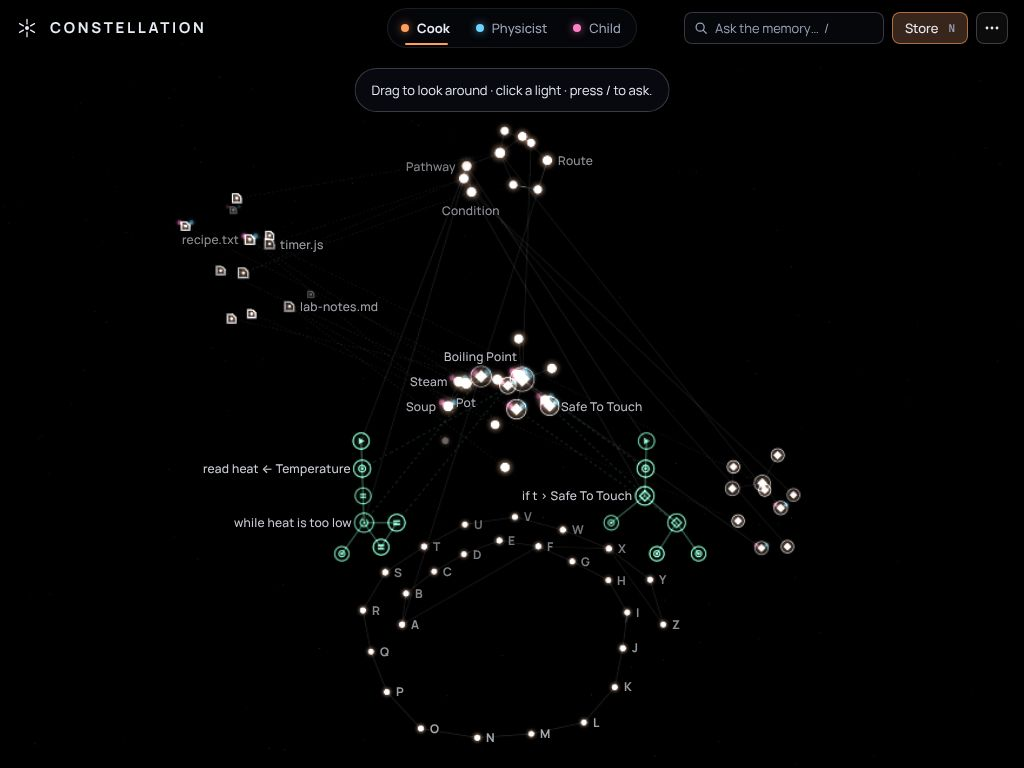
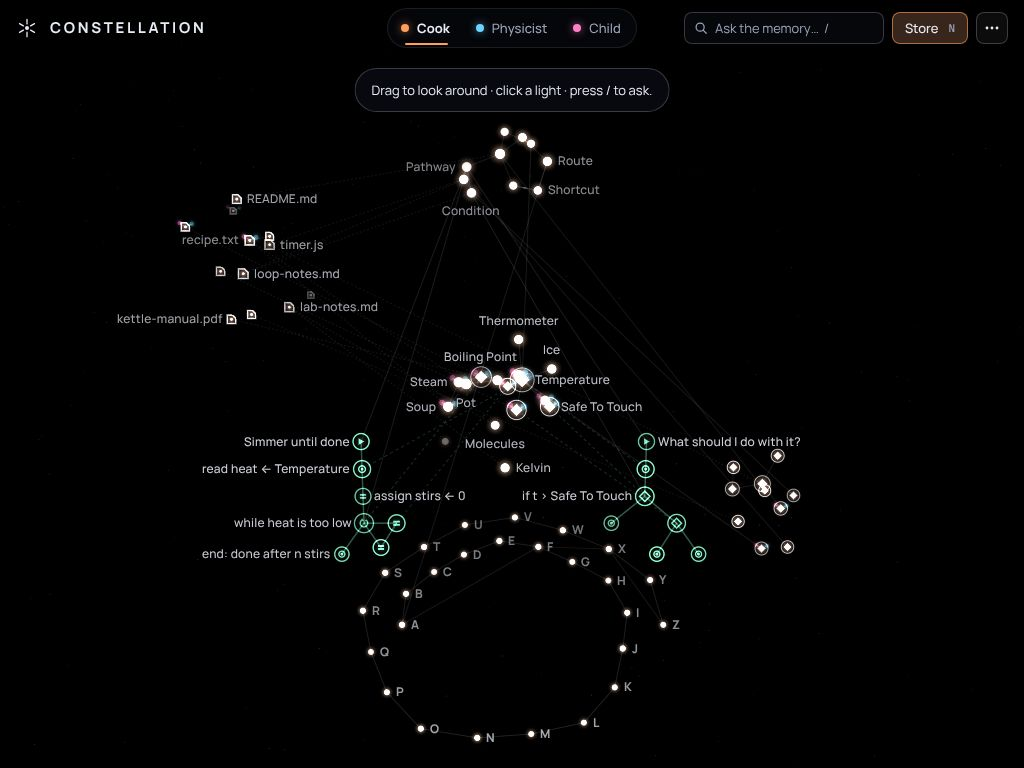
M-0002: view remediation r1 (honest save state, camera reframing, ring letters, polish)
Claude-Session: https://claude.ai/code/session_01Nz16PwjAT5eDHtiEjG1iHC

diff --git a/projects/constellation/src/view/renderer.ts b/projects/constellation/src/view/renderer.ts
@@ -1363,12 +1363,15 @@ export const createRenderer: CreateRenderer = ({ container, reducedMotion }) => 
     }
     // Ghost chips are rationed: the 8 most central disagreeing nodes, plus hover / selection; all with D (F-020).
     const chipNodes = new Set<NodeId>();
+    const chipRank = new Map<NodeId, number>();
     if (ghostExpanded) {
       const cx = width / 2;
       const cy = height / 2;
       const cands = order.filter((n) => n.onScreen && n.data.ghosts?.length && n.bright > 0.2);
-      cands.sort((a, b) => Math.hypot(a.sx - cx, a.sy - cy) - Math.hypot(b.sx - cx, b.sy - cy));
+      // Hubs first (Temperature in the seed), then nearest the centre.
+      cands.sort((a, b) => b.degree - a.degree || Math.hypot(a.sx - cx, a.sy - cy) - Math.hypot(b.sx - cx, b.sy - cy));
       for (const n of ghostHeld ? cands : cands.slice(0, 8)) chipNodes.add(n.id);
+      [...chipNodes].forEach((id, i) => chipRank.set(id, i));
       if (selected) chipNodes.add(selected);
       if (hovered) chipNodes.add(hovered);
     }
@@ -1400,7 +1403,9 @@ export const createRenderer: CreateRenderer = ({ container, reducedMotion }) => 
         priority: pr,
         opacity: op,
         cls: n.id === selected ? 'sel' : n.road ? 'road' : undefined,
-        isLabel: true,
+        // Single road letters still declutter but don't spend the 40-word cap (F-015).
+        isLabel: !n.road,
+        overCores: pr >= 14,
         nodeId: n.id,
       });
       // Ghost chips when expanded; the active value sits on top (never as a ghost)
@@ -1420,7 +1425,7 @@ export const createRenderer: CreateRenderer = ({ container, reducedMotion }) => 
             y: n.sy - Math.sin(ang) * off,
             offset: 0,
             anchors: [Math.cos(ang) < 0 ? 'left' : 'right', 'below'],
-            priority: 85 - i * 0.1 + (n.id === selected ? 10 : 0),
+            priority: 85 - (chipRank.get(n.id) ?? 8) * 0.5 - i * 0.1 + (n.id === selected ? 10 : 0),
             opacity: Math.max(op, 0.85),
             color: toCss(lensOf(g.perspective)),
           });
@@ -1434,7 +1439,7 @@ export const createRenderer: CreateRenderer = ({ container, reducedMotion }) => 
             y: n.sy - (ghostR * pxPerU + 8),
             offset: 0,
             anchors: ['above'],
-            priority: 86,
+            priority: 85.2 - (chipRank.get(n.id) ?? 8) * 0.5,
             opacity: Math.max(op, 0.85),
             color: lensCss,
           });

diff --git a/projects/constellation/src/ui/app.ts b/projects/constellation/src/ui/app.ts
@@ -4,7 +4,7 @@ import {
   compareRoutes,
   exportJson,
   importJson,
-  learnShortcut,
+  learnShortcutDetailed,
   listPathways,
   parseExpr,
   pathwayNodes,
@@ -408,15 +408,13 @@ export class App {
     const v = this.route;
     const s = v?.cmp.shortest;
     if (!v || !s || s.hops < 2) return;
-    const before = new Set(this.graph.relations().map((r) => r.id));
-    const rel = learnShortcut(this.graph, s);
-    const isNew = !before.has(rel.id);
+    // learned is true only when something changed, so "Learned" is always truthful (F-007).
+    const res = learnShortcutDetailed(this.graph, s);
+    const rel = res.relation;
     const A = labelOf(this.graph, s.nodes[0] as NodeId);
     const Z = labelOf(this.graph, s.nodes[s.nodes.length - 1] as NodeId);
-    if (!isNew) {
-      // Already there (possibly for another lens): say so, register no undo (F-007).
-      const owners = rel.perspectives?.length ? ` It exists for ${listJoin(rel.perspectives.map((p) => 'the ' + this.lensLabel(p)))}, not the ${this.lensLabel()}.` : '';
-      toast(`${A} ↔ ${Z} is already a shortcut.${owners}`, { key: 'learn', timeout: 5000 });
+    if (!res.learned) {
+      toast(`${A} ↔ ${Z} is already a shortcut.`, { key: 'learn', timeout: 5000 });
       return;
     }
     const learnedRoute: Route = { kind: 'shortest', nodes: [rel.from, rel.to], relations: [rel.id], hops: 1, cost: 1 / rel.weight };
@@ -425,8 +423,11 @@ export class App {
     const pct = cmp.declared && cmp.shortest ? Math.round(((cmp.declared.hops - cmp.shortest.hops) / cmp.declared.hops) * 100) : 0;
     this.route = { ...v, cmp, learned: true, note: '', verdict: cmp.declared && cmp.shortest ? `${hops(cmp.declared.hops)} → ${hops(cmp.shortest.hops)} · ${pct}% shorter` : v.verdict };
     const id = rel.id;
+    const previous = res.previous;
     this.pushUndo(`Learned ${A} ↔ ${Z}`, () => {
-      if (this.graph.getRelation(id)) this.graph.removeRelation(id);
+      if (!this.graph.getRelation(id)) return;
+      if (previous) this.graph.updateRelation(id, { perspectives: previous.perspectives });
+      else this.graph.removeRelation(id);
     }, `Forgot the shortcut ${A} ↔ ${Z}.`);
     toast(`Learned: ${A} ↔ ${Z}. Next time it's one hop.`, {
       key: 'learn',

diff --git a/projects/constellation/src/view/overlay.ts b/projects/constellation/src/view/overlay.ts
@@ -22,6 +22,8 @@ export interface OverlayItem {
   cls?: string;
   /** Placed even if it overlaps (still blocks later items). */
   force?: boolean;
+  /** May sit over other stars' cores (hubs, focus); never over text. */
+  overCores?: boolean;
   /** Counts toward the label cap. */
   isLabel?: boolean;
   nodeId?: string;
@@ -102,11 +104,11 @@ export class Overlay {
     const blockers = obstacles.map((o) => ({ x: o.x - o.r, y: o.y - o.r, w: o.r * 2, h: o.r * 2 }));
     let labels = 0;
     const seen = new Set<string>();
-    const overlaps = (x: number, y: number, w: number, h: number) => {
+    const overlaps = (x: number, y: number, w: number, h: number, cores = true) => {
       for (const r of placed) {
         if (x < r.x + r.w + PAD && x + w + PAD > r.x && y < r.y + r.h + PAD && y + h + PAD > r.y) return true;
       }
-      for (const r of blockers) {
+      if (cores) for (const r of blockers) {
         if (x < r.x + r.w && x + w > r.x && y < r.y + r.h && y + h > r.y) return true;
       }
       return false;
@@ -122,7 +124,8 @@ export class Overlay {
         const p = anchorAt(a, it.x, it.y, it.offset, w, h);
         // Never cross the viewport edge (8 px margin, F-026).
         if (p.x < 8 || p.y < minY || p.x + w > vw - 8 || p.y + h > vh - 8) continue;
-        if (!it.force && overlaps(p.x, p.y, w, h)) continue;
+        // Ghost chips declutter against text, not against stars (they sit in dense clusters).
+        if (!it.force && overlaps(p.x, p.y, w, h, it.kind !== 'chip' && !it.overCores)) continue;
         spot = p;
         break;
       }

diff --git a/projects/constellation/src/ui/drawer.ts b/projects/constellation/src/ui/drawer.ts
@@ -33,7 +33,6 @@ export class Drawer {
         { type: 'button', role: 'tab', id: `tab-${t.id}`, 'data-tab': t.id, 'aria-controls': 'drawer-panel', 'aria-selected': 'false', 'aria-keyshortcuts': t.key, title: t.key ? `${t.label} (${t.key})` : t.label },
         svgIcon(t.icon),
         h('span.tab-label', {}, t.label),
-        t.key ? h('kbd', { 'aria-hidden': 'true' }, t.key) : null,
       );
       b.addEventListener('click', () => {
         if (this.el.classList.contains('rail')) this.el.classList.remove('rail');
@@ -274,7 +273,7 @@ export class Drawer {
     const n = h('span.n', {});
     text.split(' · ').forEach((seg, k) => {
       if (k) n.append(' · ');
-      n.append(h('span.seg', {}, seg));
+      n.append(h('span.tseg', {}, seg));
     });
     return h('li', { class: cls || undefined, 'aria-current': cur ? 'step' : undefined }, h('span.i', { 'aria-hidden': 'true' }, String(i + 1)), n);
   }

diff --git a/projects/constellation/src/ui/scene.ts b/projects/constellation/src/ui/scene.ts
@@ -74,13 +74,13 @@ export class SceneBuilder {
   }
 
   /**
-   * A birthplace beside the link target, in every lens (F-024): distance max(14, 2.5·(r_target + r_new)),
+   * A birthplace beside the link target, in every lens (F-024): distance max(18, 2.5·(r_target + r_new)),
    * in the emptiest of 8 seeded sectors around it, so the new light joins its neighbourhood clear of it.
    */
   birthplace(id: NodeId, near: NodeId | null): Partial<Record<PerspectiveId, Vec3>> {
     const out: Partial<Record<PerspectiveId, Vec3>> = {};
     const deg = near ? this.graph.relationsOf(near).length + 1 : 0;
-    const dist = Math.max(14, 2.5 * (1.6 + 0.45 * Math.sqrt(deg) + 1.6 + 0.45));
+    const dist = Math.max(18, 2.5 * (1.6 + 0.45 * Math.sqrt(deg) + 1.6 + 0.45));
     for (const p of this.graph.perspectives()) {
       const pos = this.positions(p.id);
       const base = near ? pos.get(near) : undefined;

diff --git a/projects/constellation/src/view/layers.ts b/projects/constellation/src/view/layers.ts
@@ -126,10 +126,12 @@ void main() {
     haloK = 0.7;
   } else {
     // Small stars stay crisp; close-up cores get a hot 0.4r centre with a soft falloff (F-027).
-    float crisp = fill(d - R);
-    float t = max(0.0, d - 0.4 * R) / (0.35 * R);
-    float soft = max(fill(d - 0.4 * R), exp(-t * t)) * step(d, R + 1.0);
-    core = mix(crisp, soft, smoothstep(6.0, 12.0, R));
+    core = fill(d - R);
+    if (R > 6.0) {
+      float t = max(0.0, d - 0.4 * R) / (0.35 * R);
+      float soft = max(fill(d - 0.4 * R), exp(-t * t)) * step(d, R + 1.0);
+      core = mix(core, soft, smoothstep(6.0, 12.0, R));
+    }
   }
   // Gaussian-shaped falloff without exp/pow: (1 - x²)³ over the halo extent.
   float hx = clamp(d / (R * 2.7 * vMisc.z * haloK), 0.0, 1.0);

diff --git a/projects/constellation/src/styles/app.css b/projects/constellation/src/styles/app.css
@@ -244,7 +244,7 @@ body.show-tools .lenses, body.show-tools .tools { opacity: 1; transform: none; t
 .trace { list-style: none; margin: 0; padding: 0; max-height: 168px; overflow: auto; display: flex; flex-direction: column; gap: 1px; scrollbar-width: thin; }
 .trace li { font: 400 var(--fs-12) / 1.45 var(--font-mono); color: var(--ink-dim); padding: 2px 6px; border-radius: 4px; display: grid; grid-template-columns: 22px 1fr; gap: 4px; }
 .trace li .i { color: var(--ink-faint); }
-.trace li .seg { white-space: nowrap; }
+.trace li .tseg { white-space: nowrap; }
 .trace li.cur { background: color-mix(in srgb, var(--pulse) 14%, transparent); color: var(--ink); }
 .trace li.t-true .n { color: var(--pulse); }
 .trace li.t-false .n { color: var(--false); }

diff --git a/projects/constellation/tests/e2e/responsive.spec.ts b/projects/constellation/tests/e2e/responsive.spec.ts
@@ -64,6 +64,11 @@ test.describe('1024×768', () => {
     await expect(page.locator('#route-verdict')).toHaveText('25 hops → 3 hops · 88% shorter');
     await page.mouse.move(1000, 700);
     await shot('F7-route-complete-1024');
+    // The route framed the ring (F-014): clear it and go home before picking Temperature.
+    await page.keyboard.press('Escape');
+    await page.keyboard.press('Home');
+    await page.waitForTimeout(900);
+    await idle(page);
     const t = await nodePoint(page, 'Temperature');
     await page.mouse.click(t.x, t.y);
     await page.waitForTimeout(1000);

diff --git a/bureau/missions/M-0002-constellation/log.md b/bureau/missions/M-0002-constellation/log.md
@@ -58,3 +58,26 @@ Chronological record kept by `bureau`. Append with `python3 bureau/bin/bureau lo
 - `2026-11-23T01:11:38Z` **engineer** — F-010 resolved: Canonical facets, units and positions are built with Object.fromEntries (own data props, so '__proto__' stays a key); layout reads authored positions via hasOwn; updatePerspective rejects unknown patch keys — U-persistence-12 (node id and lens id __proto__/constructor round-trip, layout, pathway read), U-graph-11
 - `2026-11-23T01:11:38Z` **engineer** — F-016 resolved: Long Road re-authored as a 1.5-turn spiral ring (seed-source.ts ringPosition, φ = 180° − 540°·i/25, laps 2s apart); memory.json regenerated. In all lenses A and Z are 180° apart, A–Z passes within 0.1R of the centre, A–F within 0.65R, and non-neighbour stops stay >15 u apart (U-layout-11). Routes unchanged: 25→3, Child 20 (U-routing-1,2). Default-view diagram checked by eye (scratch render)
 - `2026-11-23T01:12:11Z` **ceo** — Core fixes r1 DONE (F-002/7/8/9/10/16 resolved, 85 unit). Spec §6 ring formula superseded by seed-source spiral — seed is the source of truth.
+- `2026-11-23T01:19:56Z` **engineer** — F-001 resolved: main.ts wraps storage so Saved shows only after setItem succeeds (shell.savedConfirmed); blocked/failed storage shows persistent 'Not saved' chip + toast with Export; store toast no longer claims Saved — instruments.spec.ts [F-001] + flows E5 '#saved' after write; npm run verify PASSED
+- `2026-11-23T01:19:57Z` **engineer** — F-014 resolved: app.findRoute frames all trail nodes (extras.frameNodes); search frames depth<=1 when <half on screen — instruments.spec.ts [F-014] (A,F,X,Z on screen after zoom-in); evidence/screens/F7-route-complete-1440.jpg
+- `2026-11-23T01:19:57Z` **engineer** — F-003 resolved: importText validates, then confirm 'Replace your memory with "x"?' Cancel/Export first/Replace before graph.load — instruments.spec.ts import test (Cancel keeps memory, Replace opens)
+- `2026-11-23T01:19:57Z` **engineer** — F-004 resolved: main.ts copies unreadable autosave to constellation.memory.v1.unreadable before autosave starts; persistent toast with 'Download it' (raw text) — src/main.ts boot()
+- `2026-11-23T01:19:57Z` **engineer** — F-005 resolved: startAutosave's flush kept; pagehide and visibilitychange→hidden flush then restart autosave — src/main.ts autosave block
+- `2026-11-23T01:19:57Z` **engineer** — F-006 resolved: Undo of Delete restores units and per-lens authored positions — instruments.spec.ts [F-006] (inspector shows 20 °C after undo)
+- `2026-11-23T01:19:57Z` **engineer** — F-015 resolved: Road letters exempt from small-radius cut and from the 40-word cap; route waypoints priority 95, letters 75 during a route — flows E3 asserts road-a/f/x/z in labelRects; F7-route-complete-1440.jpg
+- `2026-11-23T01:19:57Z` **engineer** — F-017 resolved: Toasts moved under the top bar (top 68 / 108 mobile); linkbar to bottom — flows E3 asserts A and Z outside the toast box; F8-shortcut-learned-1440.jpg
+- `2026-11-23T01:19:57Z` **engineer** — F-018 resolved: Undo recomputes the shown route (3 hops, Learn enabled), copy 'Forgot the shortcut A ↔ Z.', reverse draw 300 ms easeInOut — flows E3 undo block
+- `2026-11-23T01:19:57Z` **engineer** — F-019 resolved: Halo tint 25%→55% lens and halo peak +40% (renderer haloCol, layers NODE_FS) — F1-idle-1440.jpg vs F5-morph-settled-1440.jpg
+- `2026-11-23T01:19:57Z` **engineer** — F-020 resolved: Chips: max 16 chars+ellipsis, borderless plate, ration 8 nodes (hubs first) unless D/hover/select — flows E2; F5-morph-settled-1440.jpg
+- `2026-11-23T01:19:57Z` **engineer** — F-021 resolved: Root cause: kind/op codes compared as interpolated varyings; now rounded (floor(x+0.5)) in node/sprite/line shaders — F1/F5/F10 screenshots show stable glyphs
+- `2026-11-23T01:19:57Z` **engineer** — F-022 resolved: NBSP between value and unit (Units.show, withUnits) and before each → in route rows; trace segments nowrap, wrap only at ' · ' — F9-pulse-mid-loop-1440.jpg
+- `2026-11-23T01:19:57Z` **engineer** — F-023 resolved: Desktop top inset 56 px in camera framing; pathway fit includes read sources and @refs — F9-pulse-mid-loop-1440.jpg (Boiling Point + 100 °C chip clear of top bar)
+- `2026-11-23T01:19:57Z` **engineer** — F-024 resolved: Birthplace max(18u, 2.5·(rt+rn)) in emptiest of 8 seeded sectors — flows E5 asserts Tea ≥24 px from Temperature; F12-stored-1440.jpg
+- `2026-11-23T01:19:57Z` **engineer** — F-025 resolved: Verdict = 15/700 signal text; Learn filled signal with dark ink; tabs compact, ✕ inside header (axe target-size clean); chip gaps 8/12 — F7-route-complete-1440.jpg
+- `2026-11-23T01:19:57Z` **engineer** — F-026 resolved: <600 px fit = pathway nodes + read targets; labels keep 8 px viewport margin; touch hint copy — F1-idle-375.jpg; responsive.spec 375
+- `2026-11-23T01:19:57Z` **engineer** — F-011 resolved: SpriteLayer/LineLayer ensure() copy already-pushed data when growing (layers.ts)
+- `2026-11-23T01:19:58Z` **engineer** — F-012 resolved: Copy 'Try the featured route: A → Z'; scene root no longer findByLabel('Memory') (renderer uses highest degree; app.hub()); unit-variable heuristic removed (core units)
+- `2026-11-23T01:19:58Z` **engineer** — F-013 resolved: Overlay width cache cleared above 2000 entries (overlay.ts measure)
+- `2026-11-23T01:19:58Z` **engineer** — F-027 resolved: Close-up concept cores: hot 0.4r centre + gaussian falloff when R>6px (layers.ts NODE_FS)
+- `2026-11-23T01:19:58Z` **engineer** — F-028 resolved: Results summary is sr-only live text; headings carry counts — F11-search-1440.jpg
+- `2026-11-23T01:19:58Z` **engineer** — F-029 resolved: Store title moved out of the scrolling form (always visible), error spacing -8px/+4px, empty errors hidden — Store-validation-375.jpg

diff --git a/bureau/missions/M-0002-constellation/reports/fix-r1-wo003.md b/bureau/missions/M-0002-constellation/reports/fix-r1-wo003.md
@@ -1,0 +1,28 @@
+# Report — WO-003 — remediation round 1
+
+STATUS: DONE
+Discipline: rendering + frontend · Mission: M-0002 · Round: fix-r1
+
+## Built
+I resolved all 23 WO-003 findings (2 S1, 15 S2, 6 S3), each with a test or a screenshot. The UI side of F-007 is wired to `learnShortcutDetailed` (the finding was closed by the core engineer). F-016's new spiral ring is re-checked in F6–F8: the A–Z chord now crosses the empty centre (`evidence/screens/F8-shortcut-learned-1440.jpg`).
+
+## Done-when criteria
+| # | Criterion | ✓/✗ | Evidence |
+|---|---|---|---|
+| 1 | F-001: Saved only after a confirmed write; "Not saved" state | ✓ | `instruments.spec.ts` [F-001]; `flows.spec.ts` E5 `#saved` |
+| 2 | F-014: route and search reframe the camera | ✓ | `instruments.spec.ts` [F-014]; F7-route-complete-1440 |
+| 3 | S2s: F-003/4/5/6/15/17–26 | ✓ | `finding list M-0002` (all resolved, with evidence lines) |
+| 4 | S3s: F-011/12/13/27/28/29 | ✓ | same |
+| 5 | Re-shot frames looked at | ✓ | F1, F5, F7, F8, F9, F11, F12 at 1440 and F1 at 375, in `evidence/screens/` |
+
+## Verify
+`npm run verify` gives VERIFY PASSED: typecheck, unit, build, size (189.6 KB gz) and e2e (17/17, 3 new regression tests).
+
+## Root causes worth knowing
+- **F-021:** shader kind and op codes were compared as interpolated varyings, so float error sent some pathway nodes to the disc branch. They are now rounded first.
+- **F-015:** Long Road letters were dropped by the small-radius rule. They now bypass it and no longer spend the 40-word label cap, though they still go through the overlap test.
+
+## Gaps and requests
+- F-019: the lens tint is visible but still subtle at overview distance (small halos). Re-judge at review.
+- The spec copy "Try the Long Road: A → Z" became "Try the featured route: A → Z" (F-012, to keep seed knowledge out of the UI). An optional `meta.featured.route.label` would restore it. REQUEST for the core/CEO.
+- Files outside OWNS: none.
